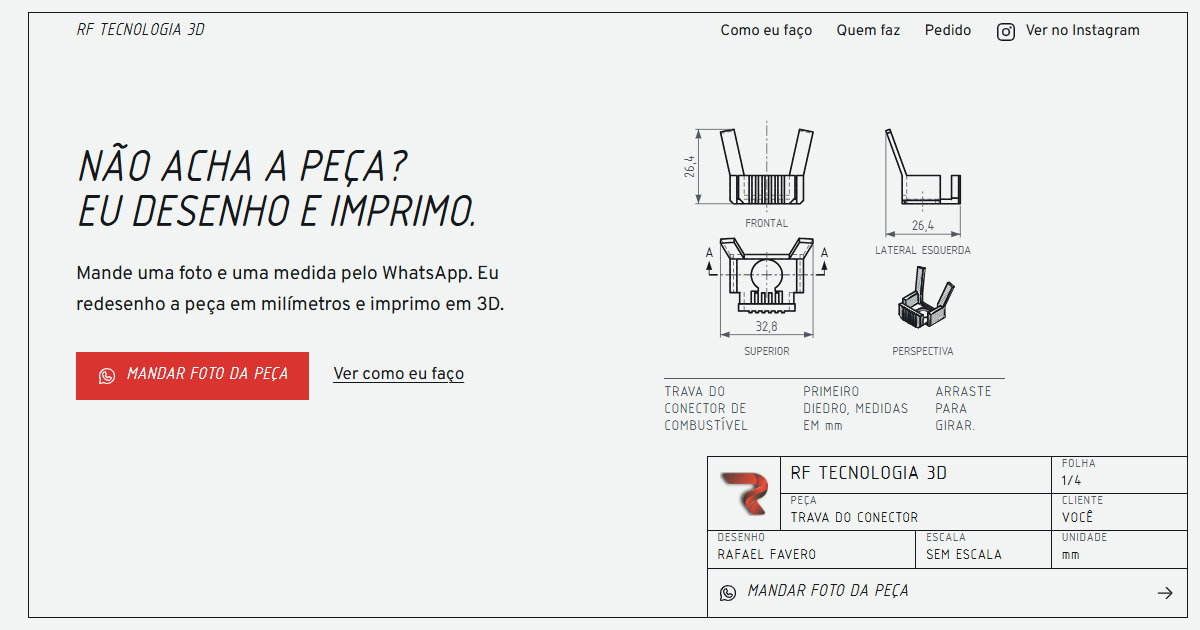
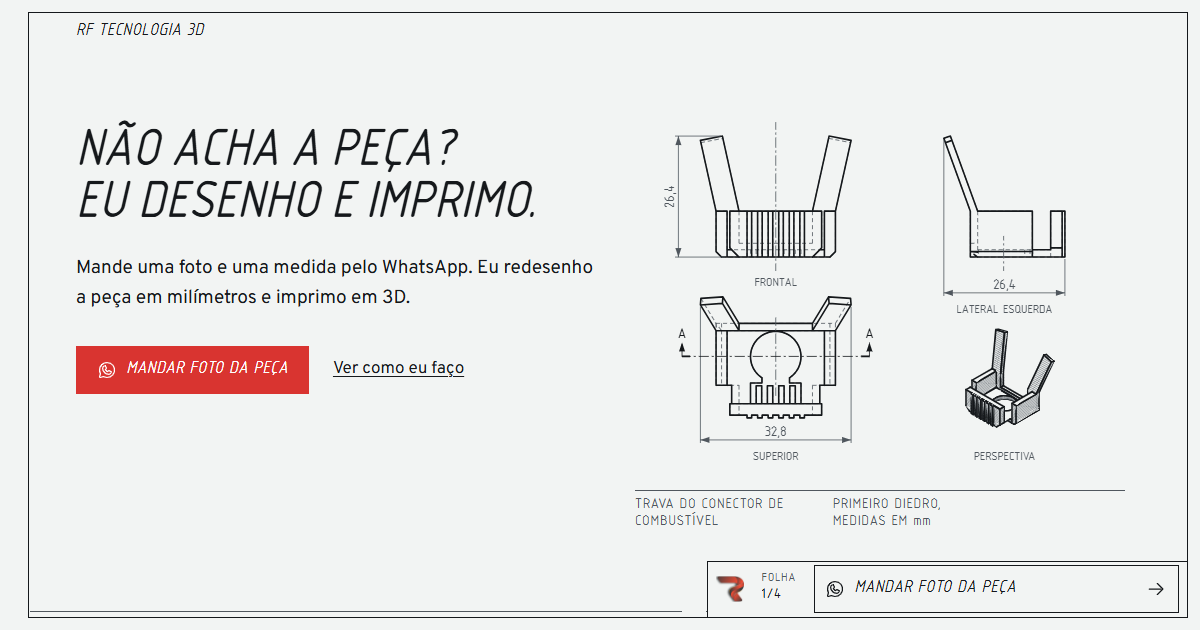
fix: lote final da revisão de acabamento e da Task 4
Folha: manchete em tamanho de display alinhada ao desenho, estados como vistas de detalhe sem caixas, hachura densa, régua na troca de folha, carimbo compacto em laptop baixo com piso de largura para a prova. Contador de folhas com topo e fim observados, teste sem número fixo, README corrigido, origem ASCII nos PNG e imagem de compartilhamento refeita.

diff --git a/assets/css/style.css b/assets/css/style.css
@@ -25,7 +25,13 @@
 @media (prefers-color-scheme: dark) {
   :root { --papel: #17355f; --tinta: #eef3f8; --grafite: #b9c9dc; --construcao: #6f9fd0; }
 }
-@media (min-width: 1024px) { :root { --moldura: 12px; --margem: 28px; --carimbo-h: 0px; --reserva: 11rem; scroll-padding-bottom: 12.5rem; /* foco nunca cai sob o carimbo */ } }
+@media (min-width: 1024px) {
+  :root { --moldura: 12px; --margem: 28px; --carimbo-h: 0px; --carimbo-reserva: 11rem; --reserva: var(--carimbo-reserva); scroll-padding-bottom: calc(var(--carimbo-reserva) + 1.5rem); /* foco nunca cai sob o carimbo */ }
+}
+/* laptop baixo: o carimbo vira uma linha (3.5rem) e a reserva do hero acompanha; a legenda cabe em três linhas */
+@media (min-width: 1024px) and (max-height: 760px) {
+  :root { --carimbo-reserva: 5rem; --legenda-h: 4.25rem; }
+}
 
 /* base */
 
@@ -67,8 +73,10 @@ h1, h2 {
   text-wrap: balance;
 }
 h1 { font-size: clamp(2rem, .25rem + 3.2vw, 3rem); line-height: 1.05; }
+@media (min-width: 1024px) { h1 { font-size: clamp(2.75rem, .8rem + 3vw, 3.7rem); } } /* duas linhas em seis colunas de 1024 a 1600: a segunda linha mede 9,5em */
 h2 { font-size: clamp(1.5rem, .5rem + 1.6vw, 2.25rem); line-height: 1.1; }
 h3 { font: 400 1.125rem/1.3 var(--letra); text-transform: uppercase; letter-spacing: .04em; word-spacing: -.1em; }
+.estados h3, .notas h3, .mandar h3 { font-style: italic; }
 .lead { font-size: 1.1875rem; }
 
 /* letra técnica pequena: só no que pertence ao desenho */
@@ -147,12 +155,11 @@ figcaption, .carimbo, .notas h3 {
 }
 .pular:focus-visible { translate: 0 0; }
 
-/* contêiner: a área útil da folha, centrada dentro da moldura */
+/* contêiner: seções de largura inteira; o conteúdo (até 82.5rem) é centrado pelo padding, e as réguas de folha alcançam a moldura */
 
 .topo, .folha, .rodape {
-  max-width: 82.5rem;
-  margin-inline: auto;
-  padding-inline: calc(var(--margem) + clamp(1rem, 4vw, 3.5rem)) calc(var(--moldura) + clamp(1rem, 4vw, 3.5rem));
+  --centro: max(0px, (100% - 82.5rem) / 2);
+  padding-inline: calc(var(--margem) + clamp(1rem, 4vw, 3.5rem) + var(--centro)) calc(var(--moldura) + clamp(1rem, 4vw, 3.5rem) + var(--centro));
 }
 
 /* topo */
@@ -194,10 +201,21 @@ figcaption, .carimbo, .notas h3 {
 main { padding-bottom: var(--reserva); }
 
 .folha {
+  position: relative;
   display: grid;
   grid-template-columns: minmax(0, 1fr);
   row-gap: 2.5rem;
-  padding-block: clamp(5rem, 10vw, 8rem);
+  padding-block: clamp(3.5rem, 8vw, 5rem);
+}
+/* troca de folha: uma régua de 1px de moldura a moldura */
+.folha + .folha::before {
+  content: "";
+  position: absolute;
+  top: 0;
+  left: calc(var(--margem) + 1.5px);
+  right: calc(var(--moldura) + 1.5px);
+  height: 1px;
+  background: var(--grafite);
 }
 .hero { padding-top: var(--hero-topo); }
 main > .folha:last-child { padding-bottom: 0; }
@@ -227,16 +245,21 @@ figcaption {
 }
 
 @media (min-width: 1024px) {
-  .hero-texto { grid-column: 1 / 6; }
+  .hero-texto { grid-column: 1 / 7; align-self: start; padding-top: 1rem; } /* a manchete alinha com o topo do desenho, sem flutuar */
   .desenho {
-    grid-column: 6 / -1;
+    grid-column: 7 / -1;
     justify-self: center;
     align-self: start; /* a caixa da figura é o desenho mais a legenda, não a altura da linha da grade */
-    /* a base da figura fica pelo menos 11rem acima do fim da tela: o canto do carimbo é livre de vistas */
-    width: min(100%, calc((100svh - var(--topo-h) - var(--hero-topo) - 11rem - var(--legenda-h)) * 4 / 3));
+    /* a base da figura fica acima da reserva do carimbo: o canto do carimbo é livre de vistas */
+    --desenho-l: calc((100svh - var(--topo-h) - var(--hero-topo) - var(--carimbo-reserva) - var(--legenda-h)) * 4 / 3);
+    width: min(100%, var(--desenho-l));
   }
   .desenho canvas { aspect-ratio: 4 / 3; }
   .desenho figcaption { grid-template-columns: 1.65fr 1.55fr 1fr; }
+}
+/* piso de 34rem para a prova: só quando a altura da tela deixa a legenda acima do carimbo */
+@media (min-width: 1024px) and (min-height: 650px) {
+  .desenho { width: min(100%, max(34rem, var(--desenho-l))); }
 }
 
 /* 2 como eu faço */
@@ -249,9 +272,10 @@ figcaption {
   gap: 1.5rem 1.5rem;
 }
 @media (min-width: 768px) { .estados { grid-template-columns: repeat(4, minmax(0, 1fr)); } }
-.estado { width: 100%; aspect-ratio: 1 / 1; border: 1px solid var(--grafite); }
-.estados h3 { margin-top: 1rem; }
-.estados p { margin-top: .375rem; }
+.estado { width: 100%; aspect-ratio: 1 / 1; border: 0; }
+/* rótulo de vista, como a legenda do hero: régua de 1px sob o desenho e letra técnica inclinada */
+.estados h3 { margin-top: .5rem; padding-top: .375rem; border-top: 1px solid var(--grafite); font-size: .9375rem; letter-spacing: .06em; }
+.estados p { margin-top: .5rem; }
 
 .caso { display: grid; grid-template-columns: minmax(0, 1fr); row-gap: 2.5rem; margin-top: 1.5rem; }
 .corte canvas { width: 100%; aspect-ratio: 4 / 3; }
@@ -412,4 +436,20 @@ figcaption {
   .campo-unidade { grid-area: unidade; }
   .campo-folha { grid-area: folha; }
   .carimbo-acao { grid-area: acao; border-width: 0; } /* aqui os filetes fazem a borda */
+}
+
+@media (min-width: 1024px) and (max-height: 760px) {
+  .carimbo {
+    height: 3.5rem;
+    background: var(--papel);
+    gap: .5rem;
+    padding: 0 .5rem;
+    align-items: center;
+    grid-template-columns: auto auto minmax(0, 1fr);
+    grid-template-areas: none;
+  }
+  .carimbo-nome, .carimbo-campo:not(.campo-folha) { display: none; }
+  .carimbo-marca { grid-area: auto; width: 1.75rem; height: auto; padding: 0; }
+  .campo-folha { grid-area: auto; }
+  .carimbo-acao { grid-area: auto; border-width: 1.5px; }
 }

diff --git a/assets/js/main.js b/assets/js/main.js
@@ -3,14 +3,18 @@ import { buildWhatsappMessage, buildWhatsappUrl } from './whatsapp.js';
 const PECA_PADRAO = 'Trava do conector';
 const CLIENTE_PADRAO = 'Você';
 
-export function acompanharFolha(secoes, alvo, rodape) {
-  const marcar = (n) => { alvo.textContent = `${n}/${secoes.length}`; };
+export function acompanharFolha(secoes, alvo, rodape, topo) {
+  let atual = 1, inicio = false, fim = false;
+  const marcar = () => { alvo.textContent = `${fim ? secoes.length : inicio ? 1 : atual}/${secoes.length}`; };
   const io = new IntersectionObserver((entradas) => {
-    for (const e of entradas) if (e.isIntersecting) marcar(e.target.dataset.folha);
+    for (const e of entradas) if (e.isIntersecting) atual = e.target.dataset.folha;
+    marcar();
   }, { rootMargin: '-45% 0px -45% 0px' });
   secoes.forEach((s) => io.observe(s));
-  // Em tela baixa, no fim da página a faixa do meio cai entre a última folha e o rodapé: rodapé à vista é a última folha.
-  new IntersectionObserver(([e]) => { if (e.isIntersecting) marcar(secoes.length); }).observe(rodape);
+  // Topo à vista é a primeira folha e rodapé à vista é a última, enquanto estiverem à vista: cobre as telas altas,
+  // em que a faixa do meio cai fora da folha 1 no início e entre a folha 4 e o rodapé no fim.
+  new IntersectionObserver(([e]) => { inicio = e.isIntersecting; marcar(); }).observe(topo);
+  new IntersectionObserver(([e]) => { fim = e.isIntersecting; marcar(); }).observe(rodape);
 }
 
 export function carimboAoVivo(form, peca, cliente) {
@@ -53,7 +57,7 @@ export function vermelhoUnico(acoes, carimbo) {
 
 if (typeof document !== 'undefined') {
   const $ = (s) => document.querySelector(s);
-  acompanharFolha([...document.querySelectorAll('[data-folha]')], $('[data-carimbo="folha"]'), $('.rodape'));
+  acompanharFolha([...document.querySelectorAll('[data-folha]')], $('[data-carimbo="folha"]'), $('.rodape'), $('.topo'));
   carimboAoVivo($('#pedido-form'), $('[data-carimbo="peca"]'), $('[data-carimbo="cliente"]'));
   enviarPedido($('#pedido-form'), $('#pedido-aviso'), $('#pedido-link'));
   vermelhoUnico([...document.querySelectorAll('main .acao')], $('.carimbo'));

diff --git a/assets/js/desenho.js b/assets/js/desenho.js
@@ -6,7 +6,7 @@ import { VISTAS, orbita, ISO, recortaAbaixo, mm } from './vistas.js';
 const CAMADA = 0.2;
 const FURO = { x: 0, y: 12.75, raio: 5.5, placa: 1.6 }; // das notas de projeto da peça; a placa em volta do furo, medida na malha
 const PLANO_AA = 12.8; // y do corte A-A: pelo eixo do furo, 0,05 mm fora do centro para não passar por vértices
-const TRACO = { visivel: 1.6, oculta: 0.8, cota: 0.8, construcao: 1, corte: 0.8, hachura: 0.7, camada: 0.5 };
+const TRACO = { visivel: 1.6, oculta: 0.8, cota: 0.8, construcao: 1, corte: 0.8, hachura: 1.1, camada: 0.5 };
 const FONTE = { cota: '13px osifont', rotulo: '11px osifont' };
 const COTA = 22; // px do contorno à linha de cota
 const ESP_COTA = COTA + 14; // px que a cota vertical ocupa à esquerda de uma vista: linha, 4px de folga e as cifras giradas
@@ -345,7 +345,7 @@ function hachurar(ctx, caminho, [x0, y0, x1, y1], cor) {
   ctx.save(); ctx.clip(caminho, 'evenodd');
   ctx.strokeStyle = cor; ctx.lineWidth = TRACO.hachura; ctx.lineCap = 'butt'; ctx.setLineDash([]);
   ctx.beginPath();
-  for (let c = x0 + y0; c <= x1 + y1; c += 5 * Math.SQRT2) { ctx.moveTo(c - y1, y1); ctx.lineTo(c - y0, y0); }
+  for (let c = x0 + y0; c <= x1 + y1; c += 3 * Math.SQRT2) { ctx.moveTo(c - y1, y1); ctx.lineTo(c - y0, y0); } // passo de 3px: o corte é um campo denso
   ctx.stroke(); ctx.restore();
 }
 
@@ -459,7 +459,7 @@ function montarHero(canvas, parte, { frontal, superior, lateral, iso }, redesenh
       for (const n of nomes) tracar(ctx, corridas(parte, tres[n]).ocultos, comp[n]);
       ctx.globalAlpha = 1;
     }
-    estiloVisivel(ctx, cor); // a linha-mestra em peso cheio por cima das faces, desde o primeiro quadro
+    estiloVisivel(ctx, cor); // as arestas visíveis em peso cheio, por cima dos tracejados, desde o primeiro quadro
     nomes.forEach((n, k) => tracar(ctx, corridas(parte, tres[n]).visiveis, comp[n], est.p[k]));
     if (est.alfa > 0) {
       ctx.globalAlpha = est.alfa;

diff --git a/assets/js/whatsapp.test.js b/assets/js/whatsapp.test.js
@@ -31,5 +31,5 @@ test('o link padrão é o mesmo gravado no HTML', () => {
 });
 
 test('url codifica acento e &', () => {
-  assert.equal(buildWhatsappUrl('Olá & tchau'), 'https://wa.me/5517997912726?text=Ol%C3%A1%20%26%20tchau');
+  assert.ok(buildWhatsappUrl('Olá & tchau').endsWith('?text=Ol%C3%A1%20%26%20tchau'));
 });

diff --git a/README.md b/README.md
@@ -15,10 +15,10 @@ O JavaScript está dividido em módulos pequenos em `assets/js/`: `stl.js` lê o
 Na raiz do repositório:
 
 ```
-python -m http.server 8765
+python -m http.server 8765 --bind 127.0.0.1
 ```
 
-Depois abra `http://localhost:8765`. Precisa ser por um servidor: aberta direto pelo `file://`, a página perde os módulos JavaScript, que o navegador bloqueia, e fica sem o desenho. Qualquer servidor estático funciona.
+Depois abra `http://127.0.0.1:8765`. O `--bind` deixa o servidor só nesta máquina; sem ele, o `http.server` escuta em toda a rede local e expõe a pasta inteira, inclusive o `.git/`. Precisa ser por um servidor: aberta direto pelo `file://`, a página perde os módulos JavaScript, que o navegador bloqueia, e fica sem o desenho, sem o envio do pedido, sem o contador de folhas e sem a regra do vermelho único. Qualquer servidor estático funciona.
 
 ## Testar
 
@@ -30,7 +30,7 @@ O comando roda `node --test assets/js/*.test.js`. `stl.test.js` confere a leitur
 
 ## Trocar o número do WhatsApp
 
-O número dos links está em três lugares, e os três mudam juntos. O primeiro é a constante `WHATSAPP_NUMBER`, no topo de `assets/js/whatsapp.js`, que o formulário usa para montar o link. O segundo são os quatro links `https://wa.me/...` escritos no `index.html`: o botão do topo da página, o link "abra por aqui" que aparece quando o WhatsApp não abre, o do rodapé e o botão do carimbo. Os quatro são iguais ao link que o formulário gera quando ninguém preenche nada, com a mensagem curta já escrita. O terceiro é a constante `LINK_PADRAO`, em `assets/js/whatsapp.test.js`. O teste confere que os quatro links do HTML são iguais a ela e que o `whatsapp.js` gera exatamente esse link; se um dos três lugares ficar para trás, o `npm test` falha.
+O número dos links está em três lugares, e os três mudam juntos. O primeiro é a constante `WHATSAPP_NUMBER`, no topo de `assets/js/whatsapp.js`, que o formulário usa para montar o link. O segundo são os quatro links `https://wa.me/...` escritos no `index.html`: o botão do topo da página, o link "abra por aqui" que aparece abaixo do botão depois de cada envio, o do rodapé e o botão do carimbo. Os quatro são iguais ao link que o formulário gera quando ninguém preenche nada, com a mensagem curta já escrita. O terceiro é a constante `LINK_PADRAO`, em `assets/js/whatsapp.test.js`. O teste confere que os quatro links do HTML são iguais a ela e que o `whatsapp.js` gera exatamente esse link; se um dos três lugares ficar para trás, o `npm test` falha.
 
 Se o texto da mensagem padrão mudar, gere o link novo com
 
@@ -46,7 +46,7 @@ O telefone também aparece escrito no rodapé e no campo `telephone` do bloco JS
 
 Todo o desenho sai de `assets/models/trava-conector.stl`. O STL de outra peça precisa ser binário, em milímetros, com o Z para cima e a base apoiada em z = 0, do jeito que a peça vai para a mesa da impressora. A vista frontal é a peça vista do lado de -Y, e o eixo de simetria dela é desenhado em x = 0, então a peça precisa estar centrada em x. Ponha o arquivo em `assets/models/` com o mesmo nome, ou troque o caminho no `fetch` da função `iniciar()`, em `assets/js/desenho.js`.
 
-Duas constantes de `desenho.js` são medidas da trava e precisam ser refeitas na peça nova. `FURO` guarda o centro, o raio e a espessura da placa em volta do furo; dali saem as linhas de centro do furo nas vistas superior e lateral. `PLANO_AA` é o y do corte A-A. Na trava ele passa pelo eixo do furo, em y = 12,8, 0,05 mm fora do centro para não cair em cima de vértices da malha. Numa peça sem furo, as duas linhas de centro do furo precisam sair de `desenharTudo()`.
+Duas constantes de `desenho.js` são medidas da trava e precisam ser refeitas na peça nova. `FURO` guarda o centro, o raio e a espessura da placa em volta do furo; dali saem as linhas de centro do furo nas vistas superior e lateral. `PLANO_AA` é o y do corte A-A. Na trava ele passa pelo eixo do furo, em y = 12,8 (fica 0,05 mm fora do centro, para não cair em cima de vértices da malha). Numa peça sem furo, as duas linhas de centro do furo precisam sair de `desenharTudo()`.
 
 No `index.html` ficam os textos sobre a trava: as quatro notas ao lado do corte, o nome na legenda do desenho, os rótulos dos canvas para leitor de tela (os `aria-label`, que citam as medidas da trava e as 132 camadas) e as frases "A trava leva 132." e "A trava, por exemplo, imprime sem suporte." O campo Peça do carimbo começa com "Trava do conector", escrito no HTML e também em `PECA_PADRAO`, no `main.js`.
 
@@ -54,7 +54,7 @@ Em `assets/js/stl.test.js`, os números medidos da trava viraram expectativa: 85
 
 ## Imagens e a origem de cada uma
 
-As imagens ficam em `assets/img/`. `marca-r.png` é o R da marca, recortado da arte original do logo que o dono forneceu, com fundo transparente, e `favicon-32.png` e `apple-touch-icon.png` foram gerados a partir dele. `rafael-favero.webp` é o retrato que o Rafael forneceu, com uso aprovado em 24/09/2026. `og.png` é a imagem que aparece quando alguém compartilha o link: uma captura do próprio site, o topo da página a 1200 × 630 px com movimento reduzido, para o desenho sair pronto.
+As imagens ficam em `assets/img/`. `marca-r.png` é o R da marca, recortado da arte original do logo que o dono forneceu, com fundo transparente, e `favicon-32.png` e `apple-touch-icon.png` foram gerados a partir dele. `rafael-favero.webp` é o retrato que o Rafael forneceu, com uso aprovado em 24/09/2026. `og.png` é a imagem que aparece quando alguém compartilha o link: uma captura do próprio site, o topo da página a 1200 × 630 px com movimento reduzido, para o desenho sair pronto, e sem a navegação do topo nem a dica de arrastar, que não fazem sentido numa imagem parada.
 
 Cada PNG leva a própria origem gravada dentro do arquivo, num bloco de texto. A ferramenta não grava dentro de WebP, então a origem do retrato fica ao lado dele, em `rafael-favero.webp.json`. Para ler a origem de uma imagem ou listar as que estão sem, no PowerShell:
 
@@ -65,7 +65,7 @@ Cada PNG leva a própria origem gravada dentro do arquivo, num bloco de texto. A
 
 No Git Bash, no Linux ou no macOS, o comando é `sh .claude/skills/impeccable/scripts/impeccable` com os mesmos argumentos. Uma imagem nova recebe a origem com `embed-prompt <arquivo> --prompt "de onde ela veio"`.
 
-Para gerar a `og.png` de novo, suba o servidor local e capture a janela de 1200 × 630 no Chrome com movimento reduzido, depois que as fontes carregarem. O Playwright não faz parte do repositório; o trecho abaixo, salvo como `.mjs` numa pasta com o `playwright-core` instalado e rodado da raiz do repositório, faz a captura:
+Para gerar a `og.png` de novo, suba o servidor local e capture a janela de 1200 × 630 no Chrome com movimento reduzido, depois que as fontes carregarem, escondendo a navegação do topo e a dica de arrastar só nessa captura. O Playwright não faz parte do repositório; o trecho abaixo, salvo como `.mjs` numa pasta com o `playwright-core` instalado e rodado da raiz do repositório, faz a captura:
 
 ```js
 import { chromium } from 'playwright-core';
@@ -74,6 +74,7 @@ const p = await b.newPage({ viewport: { width: 1200, height: 630 }, reducedMotio
 await p.goto('http://127.0.0.1:8765/', { waitUntil: 'networkidle' });
 await p.evaluate(() => document.fonts.ready);
 await p.waitForTimeout(800);
+await p.addStyleTag({ content: '.topo nav, #desenho-dica { visibility: hidden; }' });
 await p.screenshot({ path: 'assets/img/og.png' });
 await b.close();
 ```
@@ -88,7 +89,7 @@ Os ícones são da Phosphor, peso regular, copiados como SVG para dentro do `ind
 
 ## Publicação
 
-O workflow `.github/workflows/static.yml` publica no GitHub Pages a cada push na branch `main`, e também pode ser disparado à mão pela aba Actions. Ele copia só o `index.html` e a pasta `assets/`, tira os arquivos de teste (`assets/js/*.test.js`) e publica o que sobrou; documentação, skills e plano ficam só no repositório. Como não há build, o que está commitado na `main` é o que vai para o ar, em https://rafaelgfavero.github.io/template_sites3dprint/. Esse endereço está escrito no `<head>` do `index.html`, na tag `og:image` e no bloco JSON-LD, e os dois precisam mudar se o site mudar de endereço.
+O workflow `.github/workflows/static.yml` publica no GitHub Pages a cada push na branch `main`, e também pode ser disparado à mão pela aba Actions. Ele copia só o `index.html` e a pasta `assets/`, tira os arquivos de teste (`assets/js/*.test.js`) e publica o que sobrou; documentação, skills e plano ficam só no repositório. Como não há build, o `index.html` e a pasta `assets/` commitados na `main` são exatamente o que vai para o ar, em https://rafaelgfavero.github.io/template_sites3dprint/. Esse endereço está escrito no `<head>` do `index.html`, na tag `og:image` e no bloco JSON-LD, e os dois precisam mudar se o site mudar de endereço.
 
 ## Arquivos de design e skills
 
